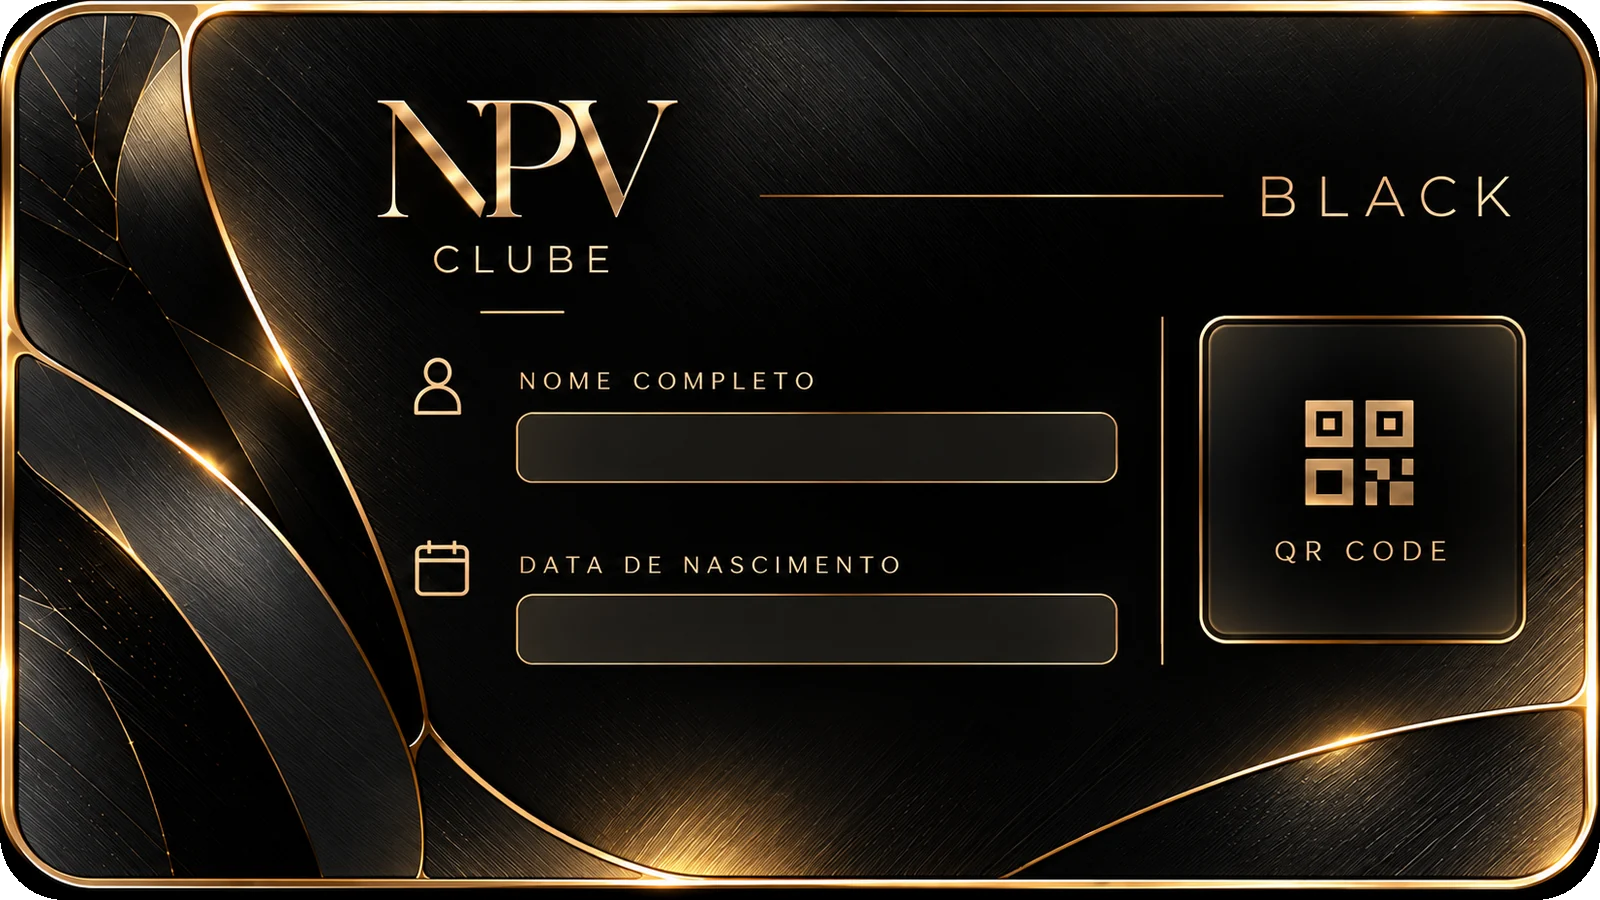
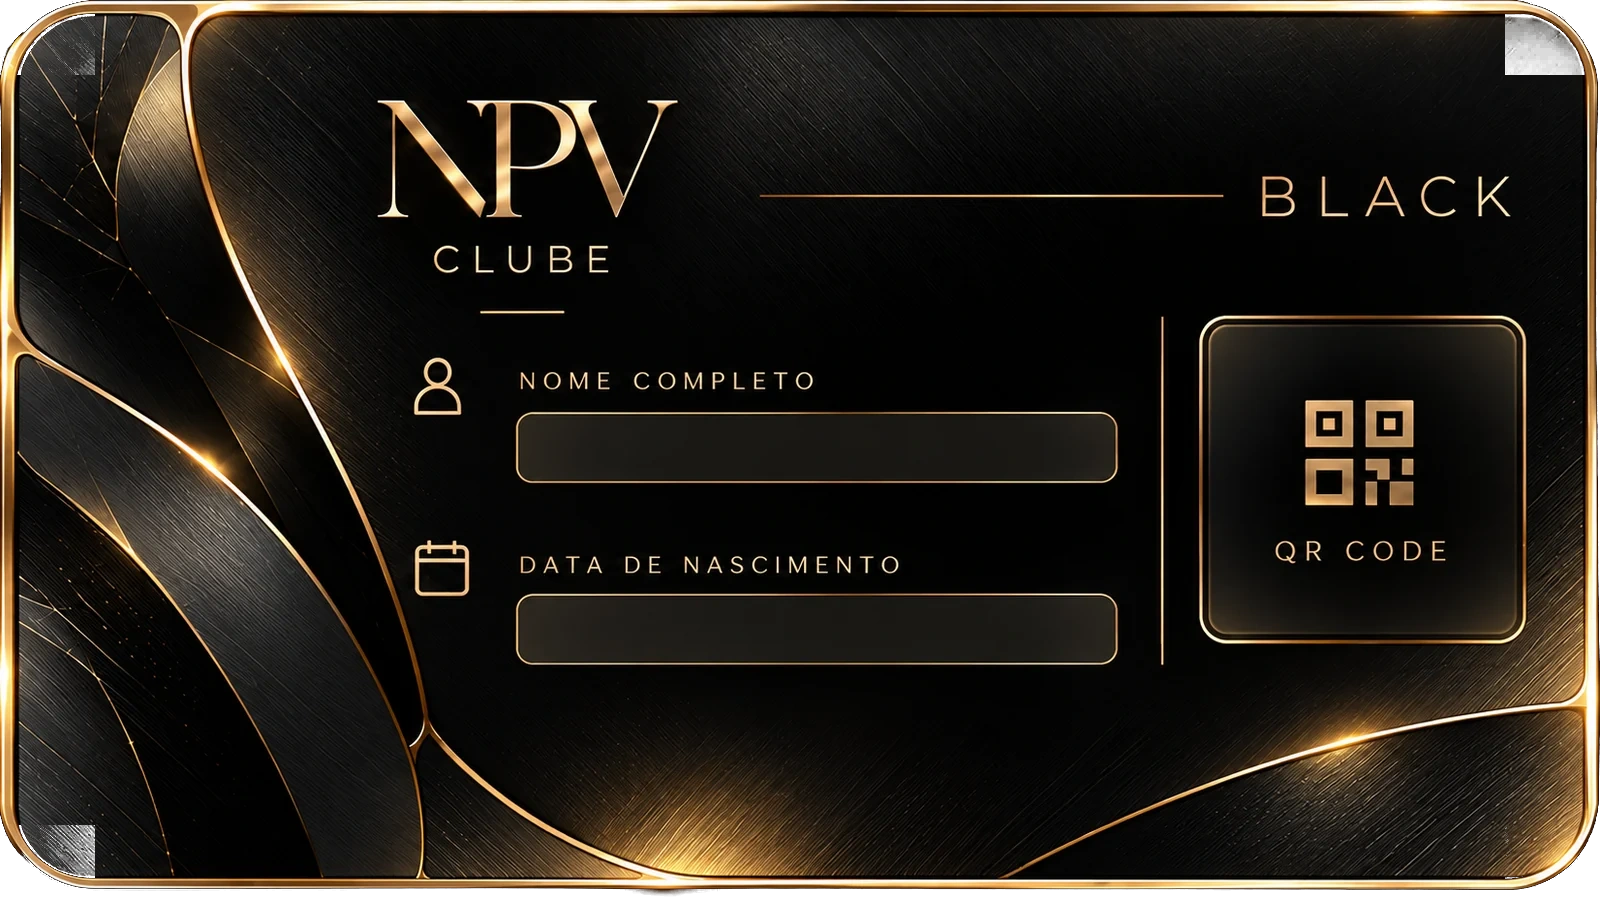
fix(clube): melhorar recorte metalizado dos seis versos
* ci(clube): processar as bordas dos seis versos sem recriar as artes

* fix(clube): remover pixels pretos externos dos seis versos

* chore(clube): retirar rotina temporaria apos corrigir os seis WebP

* fix(clube): renovar cache dos seis versos com bordas transparentes

---------

Changed region(s): [[0.0, 0.9022, 1.0, 1.0], [0.9375, 0.0, 1.0, 0.0933], [0.0, 0.0, 0.0625, 0.0933]]

diff --git a/src/ClubeWalletCard.jsx b/src/ClubeWalletCard.jsx
@@ -14,12 +14,12 @@ const images={
 }
 const accents={1:'#e6ad76',2:'#d5e1ed',3:'#e5c378',4:'#b8d0d9',5:'#7de1c5',6:'#e9cf8c'}
 const backs={
-  1:'/clube/cards/back/bronze.webp',
-  2:'/clube/cards/back/prata.webp',
-  3:'/clube/cards/back/ouro.webp',
-  4:'/clube/cards/back/platinum.webp',
-  5:'/clube/cards/back/diamante.webp',
-  6:'/clube/cards/back/black.webp'
+  1:'/clube/cards/back/bronze.webp?v=20261031-alpha1',
+  2:'/clube/cards/back/prata.webp?v=20261031-alpha1',
+  3:'/clube/cards/back/ouro.webp?v=20261031-alpha1',
+  4:'/clube/cards/back/platinum.webp?v=20261031-alpha1',
+  5:'/clube/cards/back/diamante.webp?v=20261031-alpha1',
+  6:'/clube/cards/back/black.webp?v=20261031-alpha1'
 }
 const fmt=n=>Number(n||0).toLocaleString('pt-BR')
 const displayName=name=>{
